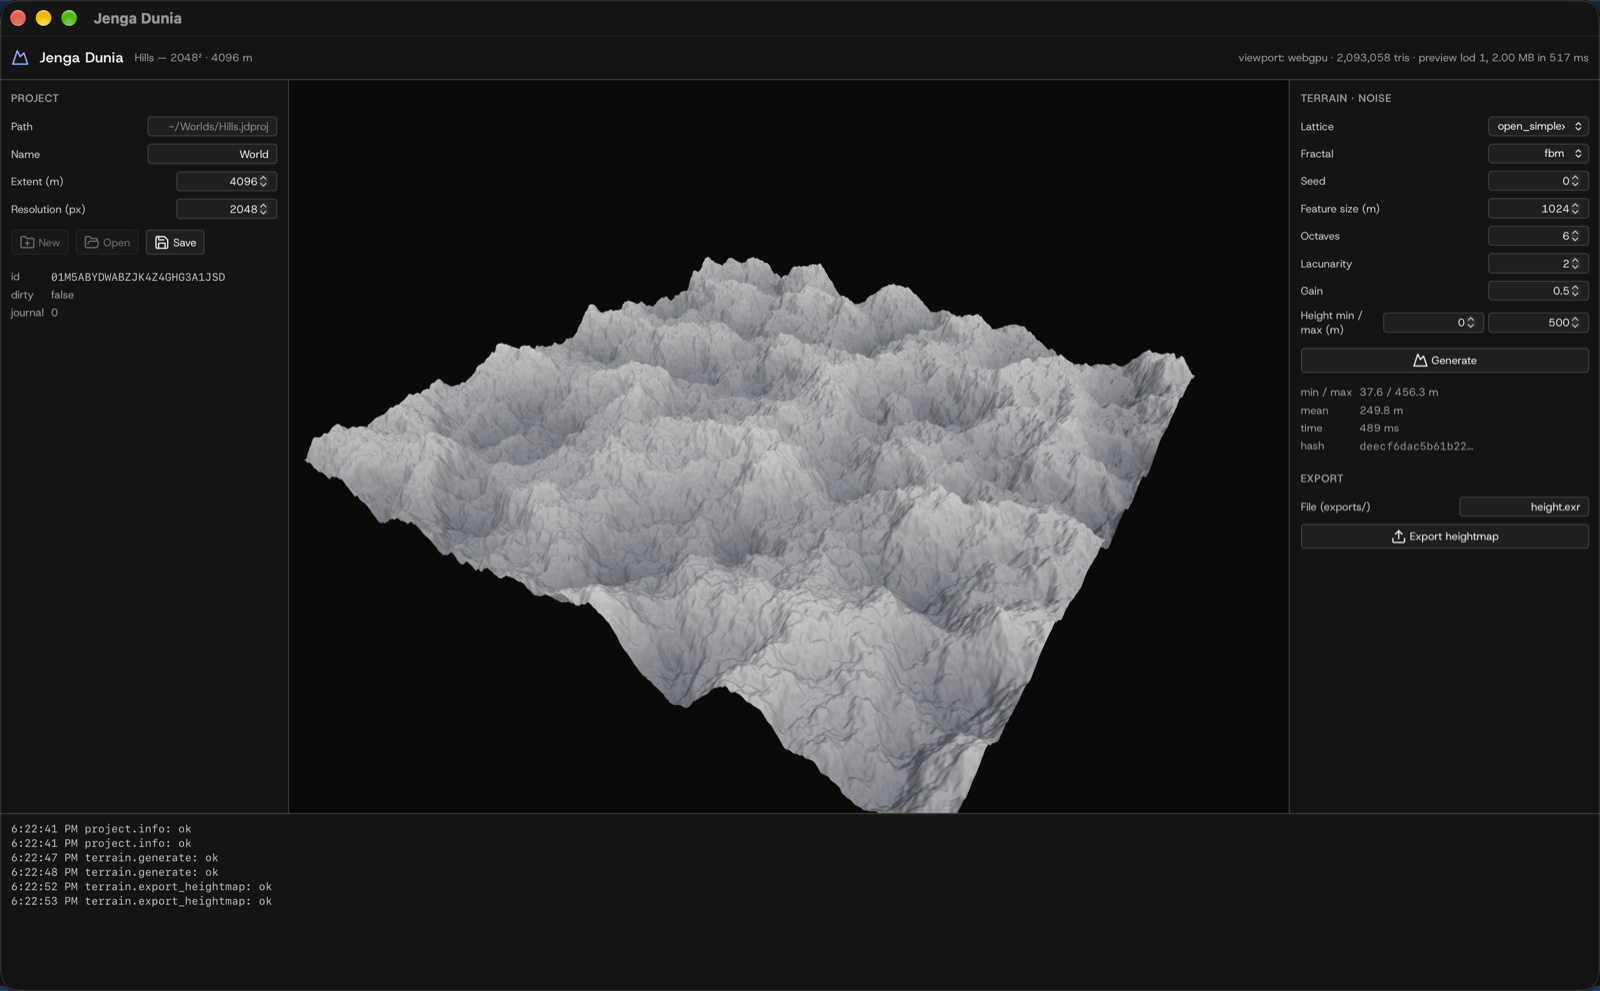
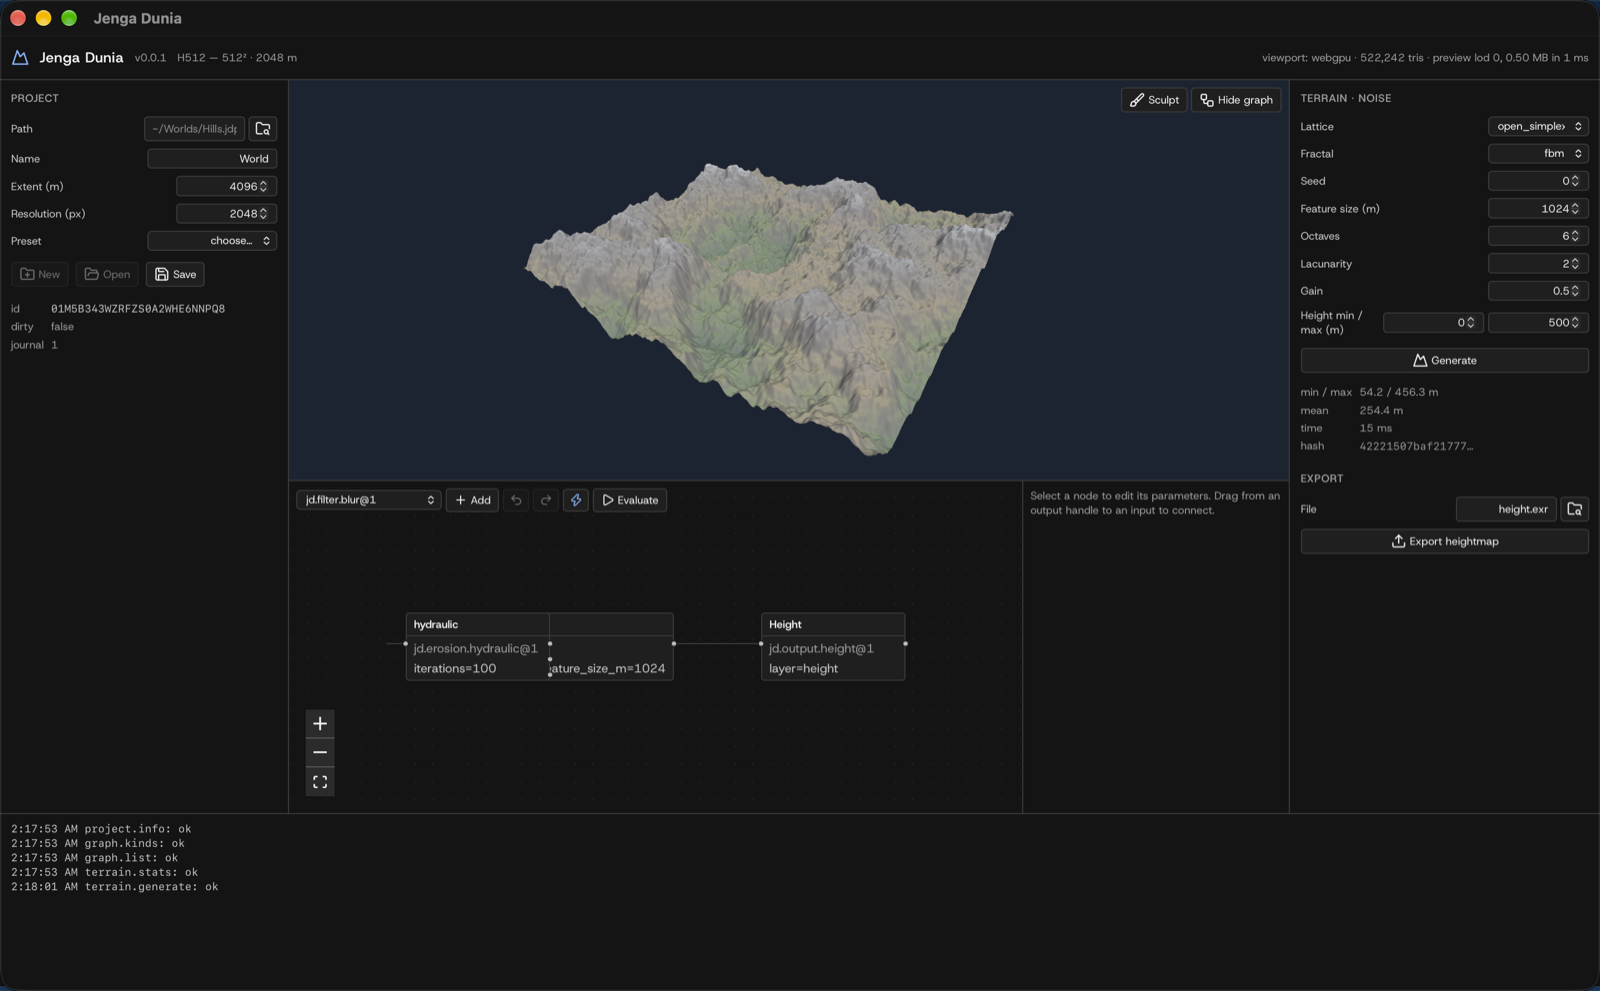
docs(user): tutorials re-shot from the native app (v0.0.1, release build with the current UI)
desktop-empty/graph/generated captured from the real window via launch args and System
Events menu clicks: hydraulic-erosion project live-previewed on open (WebGPU, 522k tris),
Generate via the Terrain menu; File and Terrain menu captures; annotation specs rewritten
for the new layout (preset picker, undo/redo/live toolbar, Sculpt button). Old menubar image
removed; Edit menu described in text.

diff --git a/docs/user/desktop-app.md b/docs/user/desktop-app.md
@@ -4,13 +4,16 @@ Status: first working build. One window, native macOS title bar, dark theme (Hos
 
 ![Jenga Dunia desktop app, empty project state](images/desktop-empty.png)
 
-*Real screenshot of the running app on macOS (2026-10-19). The header reports the viewport backend: here **WebGPU** inside the system WebView.*
+*Real screenshot of the running app on macOS (2026-10-20, v0.0.1). The header reports the viewport backend: here **WebGPU** inside the system WebView.*
 
 ![Jenga Dunia with a generated 2048² terrain in the viewport](images/desktop-generated.png)
 
-*After **Terrain → Generate Terrain** (⌘G) and **File → Export Heightmap…** (⌘E), driven through the native menu bar: 2048² OpenSimplex2 fBm, 2.09 M viewport triangles; `exports/height.exr` validated by macOS ImageIO as 2048×2048, 32 bits/sample. Release build on Apple Silicon: generation 58–63 ms, 2 MB preview to the viewport in 6 ms (the screenshot above was taken from a debug build, hence its slower readout).*
+*After **Terrain → Generate Terrain** (⌘G) driven through the native menu bar on a 512² project (release build, Apple Silicon): generation 15 ms, 0.5 MB preview to the WebGPU viewport in 1 ms, 522 242 triangles. Earlier measurement at 2048²: generation 58–63 ms, 2 MB preview in 6 ms; `exports/height.exr` validated by macOS ImageIO as 2048×2048, 32 bits/sample.*
 
-![Native macOS menu bar](images/desktop-menubar.png)
+![File menu: New Project…, Open Project…, Save, Export Heightmap…](images/desktop-menu-file.png)
+![Terrain menu: Generate Terrain, Evaluate Graph](images/desktop-menu-terrain.png)
+
+*The Edit menu adds **Undo Graph Edit** (⌥⌘Z) and **Redo Graph Edit** (⇧⌥⌘Z) below the WebView's Undo/Redo.*
 
 ## Native integration
 
@@ -30,17 +33,19 @@ cd apps/desktop && pnpm install && pnpm tauri dev
 
 ![Step-by-step: create a project, generate, export, read the log](images/tutorial-01-create-project.png)
 
-1. **Path** — type the project directory (it is created on disk as a `.jdproj` folder).
-2. **New (⌘N)** — or **Open (⌘O)** for an existing project; the header shows `name — resolution² · extent m`.
-3. **Generate (⌘G)** — after choosing lattice, fractal, seed, feature size, octaves, lacunarity, gain and height range.
-4. **Export heightmap (⌘E)** — `.exr` (exact), `.png`/`.r16` (16-bit, warns about quantisation), `.r32` (exact).
-5. **Log** — every operation with warnings and errors (stable code, why, what to do next).
+1. **Path** — type the project directory (created on disk as a `.jdproj` folder), or use the folder button / **File → Open…** for a native dialog.
+2. **Preset** — Unity 1025²/2049²/4097², Unreal 2049²/4033² or plain squares fill resolution and extent.
+3. **New (⌘N)** — or **Open (⌘O)** for an existing project; the header shows `name — resolution² · extent m`.
+4. **Generate (⌘G)** — after choosing lattice, fractal, seed, feature size, octaves, lacunarity, gain and height range.
+5. **Export heightmap (⌘E)** — `.exr`/`.tif`/`.r32` (exact), `.png`/`.r16` (16-bit, warns about quantisation).
+6. **Log** — every operation with warnings and errors (stable code, why, what to do next).
 
 ![After generating: viewport readout, layer stats, export](images/tutorial-02-generated.png)
 
-1. Viewport readout: backend (WebGPU here), triangle count, preview size and transfer time.
+1. Viewport readout: backend (WebGPU here), triangle count, preview size and transfer time. Shading is a preview: altitude tint (valley green → rock → snow), steep faces towards rock grey, sky with distance fog.
 2. Layer statistics: min/max/mean height, generation time and the content hash — the same seed and parameters always give the same hash.
-3. Export writes `exports/<file>` plus a `.jd-height.json` sidecar (size, range, flip, byte order).
+3. Export writes `exports/<file>` plus a `.jd-height.json` sidecar (size, range, flip, byte order); the folder button opens a native save dialog.
+4. **Sculpt** switches the viewport to brush strokes (tutorial below).
 
 *Annotations are generated from the real screenshots by `apps/desktop/scripts/annotate.mjs` from the `.annot.json` specs next to the images, so they can be regenerated whenever the UI changes.*
 
@@ -53,10 +58,12 @@ Every project starts with a two-node graph (`Noise → Height`), the same `graph
 ![Node graph: add, evaluate, edit, connect, inspect](images/tutorial-03-graph.png)
 
 1. **Add** — pick a kind from the list (`graph.kinds` drives it) and click **Add**; the node is placed to the right of the graph and the view re-fits.
-2. **Evaluate** — full-resolution evaluation, also **Terrain → Evaluate Graph (⌘R)**. With **live preview** (⚡, on by default) every edit re-evaluates at preview resolution (≤ 512², published as `height#lod<N>`) so the viewport follows your changes; unchanged nodes come from cache. A half-wired graph pauses the live preview with a `live preview waiting: input … not connected` line instead of an error. Export always evaluates at full resolution first.
-3. **Nodes** — click to select, drag to move (the position is saved in the project), **Delete**/**Backspace** removes the node and its edges. The ↶ ↷ buttons (or **Edit → Undo/Redo Graph Edit**, ⌥⌘Z / ⇧⌥⌘Z) step through the edit history; ⌘Z alone stays with the text fields.
+2. **Undo · Redo · ⚡ · Evaluate** — the toolbar's history buttons, the live-preview toggle and full-resolution evaluation, also **Terrain → Evaluate Graph (⌘R)**. With **live preview** (⚡, on by default) every edit re-evaluates at preview resolution (≤ 512², published as `height#lod<N>`) so the viewport follows your changes; unchanged nodes come from cache. A half-wired graph pauses the live preview with a `live preview waiting: input … not connected` line instead of an error. Export always evaluates at full resolution first.
+3. **Nodes** — click to select, drag to move (the position is saved in the project), **Delete**/**Backspace** removes the node and its edges. The ↶ ↷ buttons (or **Edit → Undo/Redo Graph Edit**, ⌥⌘Z / ⇧⌥⌘Z) step through the edit history; ⌘Z alone stays with the text fields. The capture shows a `noise → hydraulic erosion → height` graph (the hydraulic node overlaps the noise node because it was added from the CLI without a position).
 4. **Inspector** — the selected node's parameters, generated from the kind's JSON schema (enums become drop-downs, defaults show as placeholders). Leaving a field applies `graph.set_param`; an invalid value is rejected by the core before anything is journaled and the reason appears in the log.
-5. **Viewport readout** — backend, triangle count and preview transfer for the evaluated layer. When the graph publishes more than one layer (e.g. a second output node named `water` fed by the hydraulic node's `water` port, or `slope` from the slope mask), a **layer** picker appears in the header; the viewport and stats follow the chosen layer, and live previews keep showing it.
+5. **Viewport readout** — backend, triangle count and preview transfer for the evaluated layer (here the hydraulically eroded 512² terrain, live-previewed when the project opened). When the graph publishes more than one layer (e.g. a second output node named `water` fed by the hydraulic node's `water` port, or `slope` from the slope mask), a **layer** picker appears in the header; the viewport and stats follow the chosen layer, and live previews keep showing it.
+
+6. **Sculpt** — enters sculpt mode (next tutorial).
 
 Undo and redo are operations like everything else (`graph.undo` / `graph.redo`, journaled as `graph.restore`), so a crash in the middle of undoing recovers to exactly what you saw. Connect nodes by dragging from an output handle (right) to an input handle (left); an input holds one edge, so dropping a new connection replaces the old one. Cycles, wrong ports and type mismatches are refused by the core (`E_GRAPH_CYCLE`, `E_INPUT_INVALID`, `E_GRAPH_TYPE_MISMATCH`). Evaluating while a required input is unconnected reports `E_GRAPH_MISSING_INPUT` with the node and port.
 

diff --git a/memory/handover_session.md b/memory/handover_session.md
@@ -89,13 +89,15 @@ Append-only log. Newest entry first. Timestamps are local (Africa/Nairobi, UTC+3
 
 - `06:50:00` **Review 4 (sculpt/flow/GLB/TIFF/import/presets, 8 findings) applied.** Root cause of three: the field convention is **row 0 = SOUTH** (`heightfield.rs` header; preview row 0 lands at +Z in the viewport) and the new code assumed north → sculpt strokes were N/S-mirrored (viewport now maps `v = extent/2 − z`), foreign import flipped the wrong way (`north_up` now flips), GLB rows now put south at +Z with winding adjusted; orientation tests added (GLB south row → +Z; import north-up assertion; e2e drag in the lower half of the viewport → v < extent/2). Also: GLB `step` always samples the last row/column; `project.import_asset` requires an absolute source (MCP workspace check was otherwise bypassable), single-component names without `:`, never overwrites (copying an asset onto itself truncated it to 0 bytes); TIFF encoder finishes before the length is read; `jd.input.heightmap` canonicalises and refuses symlink escapes; node hash includes the asset's size+mtime. **Process slip**: commit `63841f5` went out from a chain whose python step failed, with one failing test (`C:x.png` name case) — fixed in the next commit; never chain `git push` behind steps that can fail silently — `b8bd2b0` repeated the slip (mesh tests red after the orientation change: normals divided by a negative `zm` delta clamped to 1e-9; `auto_step` budget 1 048 576 < 1025²). Fixed next commit; pushes are now gated with `&&` on the full test run.
 
-### Open / next (as of 2026-10-20 05:10, head `ae89654`)
-1. **CI**: flow node (`2c52705`) and GLB export (`ae89654`, adds the Khronos validator step to the frontend job) runs polling; everything up to `084607b` is green.
-2. **Native re-verification when the display is available** (still asleep at 04:45): `v0.0.1` badge, dialogs, ⚡ live preview, undo/redo, Sculpt mode, layer picker; re-shoot `desktop-menubar.png`, `tutorial-01/02/03` (viewport now hypsometric + sky, toolbar has undo/redo/⚡, Sculpt button) and add a sculpt tutorial image; record a native clip if Accessibility is granted. Until then the Playwright screenshots/videos (same frontend, real core) are the visual evidence.
+- `08:20:00` **Native re-verification done** (display awake, release app rebuilt with the current frontend): `v0.0.1` badge, preset picker, Sculpt button, ↶ ↷ ⚡ toolbar, folder buttons, File menu (New…/Open…/Save/Export Heightmap…), Terrain menu (Generate/Evaluate Graph); opening the hydraulic project live-previewed the eroded 512² terrain (WebGPU, 522 242 tris, 0.5 MB in 2 ms); Terrain → Generate via System Events replaced it with the noise field. Re-shot `desktop-empty/graph/generated.png` + `desktop-menu-file/terrain.png` and re-rendered `tutorial-01/02/03`. The Edit-menu capture repeatedly landed on another app's window (System Events click did not open jd-app's Edit menu) — not committed; described in text instead. Capture script: `scratchpad/capture.sh` pattern = launch (optionally with a project) → `set frontmost` → `screencapture -R<bounds>`; menus via `click menu bar item`.
+- Observed: a `graph.move_node` fired at launch in the stale build without any drag (React Flow `onNodeDragStop` after fitView?) — not reproduced with the current build; watch for it.
+
+### Open / next (as of 2026-10-20 07:30, head `770f6c4`)
+1. **CI**: `6451255` (types regenerated), `1294a04` (pre-push script), `770f6c4` (sculpt tutorial image) polling; earlier failures were the GLB step path, a stale op-schema snapshot and a stale `ops.gen.ts` — all fixed. Run `scripts/pre-push.sh` before every push.
+2. **Native re-verification when the display is available**: `v0.0.1` badge, dialogs, ⚡ live preview, undo/redo, Sculpt mode, layer picker, presets; re-shoot `desktop-menubar.png`, `tutorial-01/02/03/04` natively (04 is currently the e2e capture, labelled as such); record a native clip if Accessibility is granted.
 3. **Figma**: owner completes the connector OAuth → place/annotate screenshots in file `fxyeV62hgLoNmG3dU1LX6G`.
-4. **In progress**: TIFF f32 heightmap export (`tiff` crate just added) → then Unity/Unreal 2ⁿ+1 resolution presets in the project panel.
-5. **Phase 3 follow-ups**: hydraulic concentration cap / layered materials / open drains; thermal + hydraulic WGSL twins (`jd-gpu`); particle hydraulic; D∞/MFD + priority-flood + rivers/lakes; brush cursor + smooth/flatten brushes.
-6. **Phase 2 leftovers**: `jd-jobs` (async + progress/cancel), TS types from `schemas/v1`, foreign heightmap import, window-state persistence, bundle file association, Windows/Linux measurements.
+4. **Phase 3 follow-ups**: hydraulic concentration cap / layered materials / open drains; thermal + hydraulic WGSL twins (`jd-gpu`); particle hydraulic; D∞/MFD + priority-flood + rivers/lakes; brush cursor + smooth/flatten brushes.
+5. **Phase 2 leftovers**: `jd-jobs` (async + progress/cancel), adopt `JdOps` types in `state.ts`, GeoTIFF tags/nodata on import, window-state persistence, bundle file association, Windows/Linux measurements, textured PBR for GLB.
 
 ---
 
